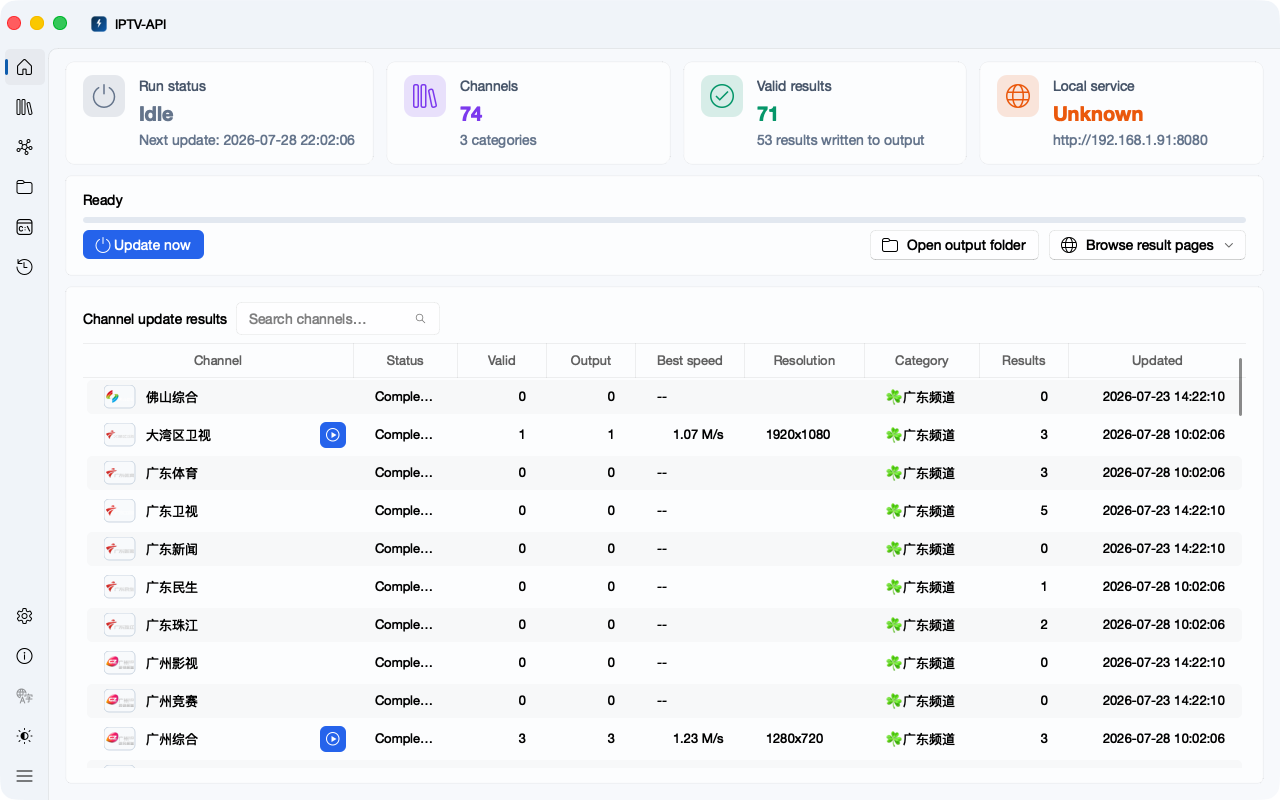
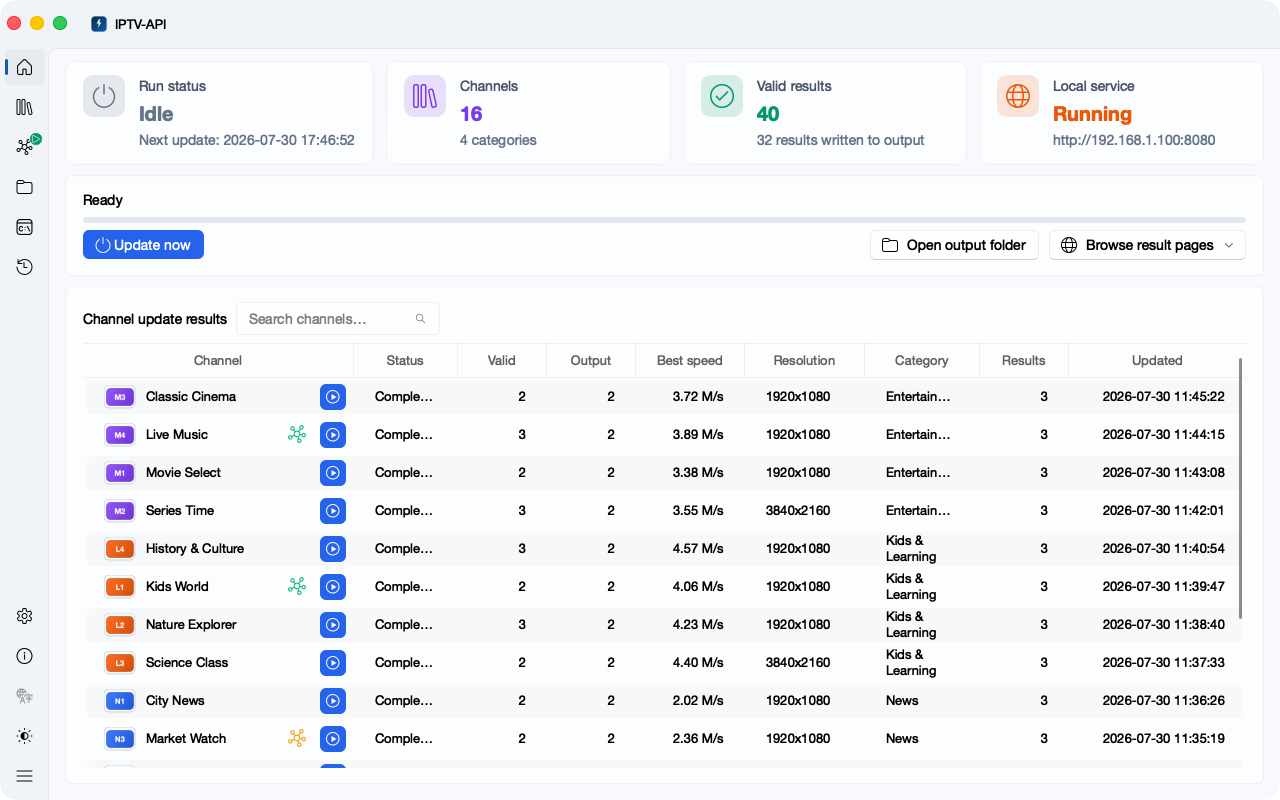
docs: document and refresh GUI showcase

diff --git a/scripts/gui_showcase/README.md b/scripts/gui_showcase/README.md
@@ -1,0 +1,47 @@
+# GUI showcase screenshots
+
+This directory contains deterministic documentation-only tooling for the
+desktop GUI screenshots. It is excluded from Docker images and must not be
+imported by production modules or included in PyInstaller data files.
+
+The generator creates a temporary SQLite channel repository and local channel
+logos, injects synthetic service and RTMP states, waits for the window to be
+ready, and captures the focused native macOS window. It does not run an update,
+start a page service, contact demo stream URLs, or modify `config/` and
+`output/`.
+
+## Generate screenshots
+
+Run on macOS from the repository root:
+
+```bash
+pipenv run python scripts/gui_showcase/capture.py
+```
+
+The command replaces:
+
+- `docs/images/desktop-ui.png`
+- `docs/images/desktop-ui-en.png`
+
+Generate one language with `--language zh_CN` or `--language en`.
+
+## Validate without capturing
+
+```bash
+pipenv run python scripts/gui_showcase/capture.py --check
+```
+
+This validates channel/result totals, stream references, bilingual fixtures,
+and packaging exclusions without opening the GUI.
+
+## Update policy
+
+Regenerate screenshots when changes affect the dashboard, navigation, channel
+tables, streaming indicators, visible localization, typography, colors,
+spacing, or window layout. Backend-only and non-visual changes do not require
+new screenshots.
+
+Before accepting generated images, verify both languages, the running local
+service state, active and starting stream indicators, local channel logos,
+collapsed navigation, window focus, and native title-bar controls. CI may run
+fixture validation, but it must not commit generated images.

diff --git a/AGENTS.md b/AGENTS.md
@@ -1,0 +1,25 @@
+# Repository agent guidelines
+
+## GUI screenshot updates
+
+- Check whether GUI screenshots need regeneration when changes affect the
+  dashboard, navigation, channel tables, streaming indicators, visible
+  localization, typography, colors, spacing, or window layout.
+- Do not regenerate screenshots for backend-only or non-visual changes.
+- Keep GUI screenshot generators, fixtures, and demo assets under
+  `scripts/gui_showcase/`.
+- Screenshot tooling must not be imported by production modules under
+  `desktop_ui/`, `service/`, `utils/`, or `main.py`.
+- Exclude `scripts/gui_showcase/` from Docker build contexts and GUI packaging
+  artifacts. Exclude screenshot-specific validation tests from Docker images,
+  and do not add fixtures or generated assets to PyInstaller `datas`.
+- Demo generation must use temporary directories and must not modify user
+  configuration, `config/`, or `output/`.
+- Generate both Chinese and English screenshots, then verify demo data,
+  service status, stream states, local logos, collapsed navigation, window
+  focus, and native title-bar controls.
+- Visually inspect generated screenshots before staging or committing them.
+- CI may report stale screenshots or validate fixtures, but must not
+  automatically commit regenerated binary assets.
+- When packaging rules change, verify that screenshot tooling is absent from
+  both Docker images and GUI distributions.
